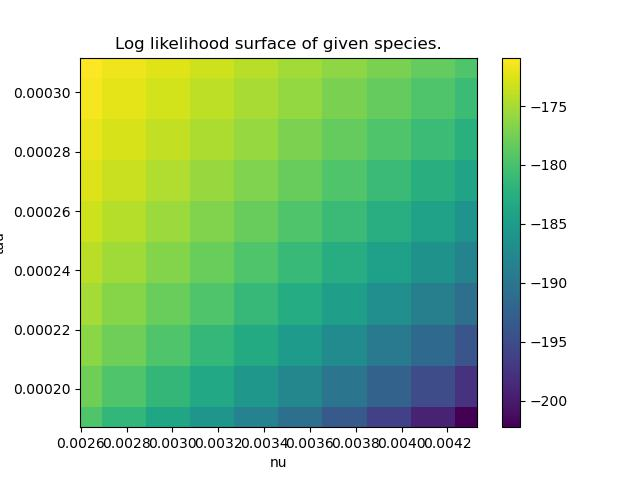
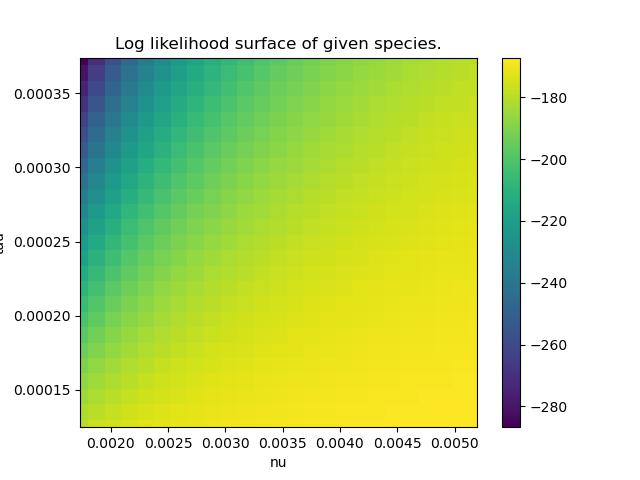
likelihood plots

diff --git a/Scripts/plot_likelihood.py b/Scripts/plot_likelihood.py
@@ -425,15 +425,21 @@ class PlotLikelihood():
                 max_nu = 1.5 * nu_prime
                 min_tau = 0.5 * tau_prime
                 max_tau = 1.5 * tau_prime
-                nu_grid = numpy.arange(min_nu, max_nu, 0.1 * nu_prime).tolist()
-                tau_grid = numpy.arange(min_tau, max_tau, 0.1 * tau_prime).tolist()
-                print(nu_grid)
-                z_shape = (len(nu_grid), len(tau_grid))
+                # nu_grid = numpy.arange(min_nu, max_nu, 0.05 * nu_prime).tolist()
+                # tau_grid = numpy.arange(min_tau, max_tau, 0.1 * tau_prime).tolist()
+                # print(nu_grid)
+                nx = 25
+                ny = 25
+                x, y = numpy.meshgrid(numpy.linspace(min_nu, max_nu, nx),
+                                      numpy.linspace(min_tau, max_tau, ny),
+                                      indexing='ij')
+                z_shape = (nx, ny)
+                # z_shape = (len(nu_grid), len(tau_grid))
                 z = numpy.ones(z_shape)
-                print(z)
-                for i in range(len(nu_grid)):
-                    for j in range(len(tau_grid)):
-                        p0 = [nu_grid[i], tau_grid[j]]
+                # print(z)
+                for i in range(nx):
+                    for j in range(ny):
+                        p0 = [x[i, 0 ], y[0, j]]
                         popt = dadi.Inference.optimize_log_lbfgsb(
                             p0=p0, data=syn_data, model_func=func_ex, pts=pts_l,
                             lower_bound=lower_bound, upper_bound=upper_bound,
@@ -441,7 +447,7 @@ class PlotLikelihood():
                         non_scaled_spectrum = func_ex(popt, syn_ns, pts_l)
                         loglik = dadi.Inference.ll_multinom(
                             model=non_scaled_spectrum, data=syn_data)
-                        ll_array = [nu_grid[i], tau_grid[j], loglik]
+                        ll_array = [x[[i]], y[[j]], loglik]
                         # ll_string = str(nu_grid[i]) + ', '
                         # ll_string += str(tau_grid[j]) + ', '
                         # ll_string += str(loglik)
@@ -451,16 +457,6 @@ class PlotLikelihood():
                         # f.write(ll_string)
                         # print(ll_string)
                 # generate 2 2d grids for the x & y bounds
-                x, y = numpy.meshgrid(numpy.linspace(min_nu, max_nu, 10),
-                                      numpy.linspace(min_tau, max_tau, 10))
-                # z = (1 - x / 2. + x ** 5 + y ** 3) * np.exp(-x ** 2 - y ** 2)
-                # x and y are bounds, so z should be the value *inside* those bounds.
-                # Therefore, remove the last value from the z array.
-                # z = z[:, :]
-                len_x = len(x)
-                len_y = len(y)
-                z = z[:len_x, :len_y]
-                # z = z[:-1, :]
                 z_min, z_max = -numpy.abs(z).max(), -numpy.abs(z).min()
 
                 fig, ax = plt.subplots()
